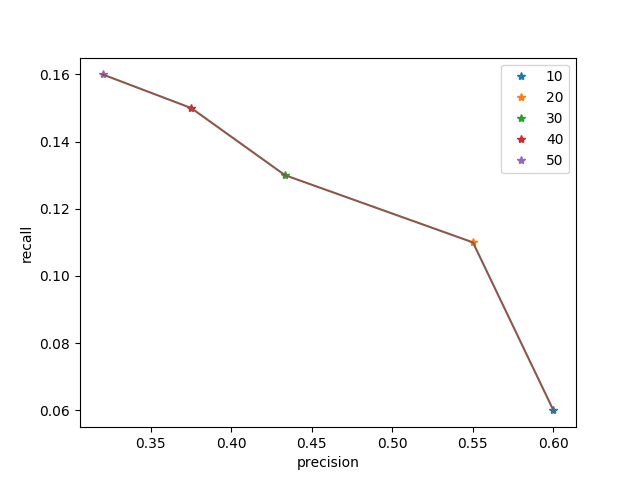
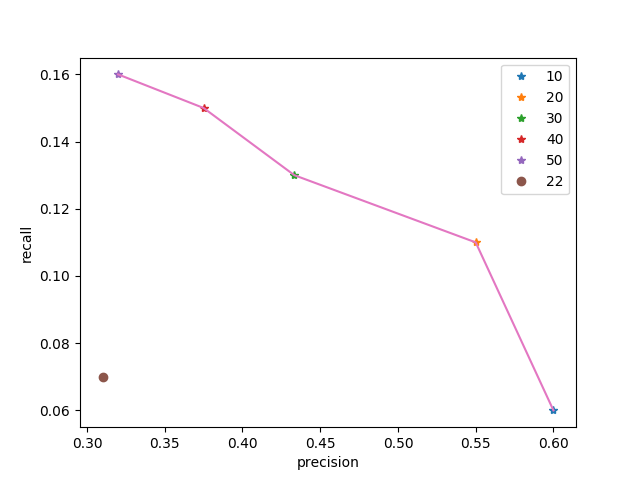
Task2.4 finalized

diff --git a/Labb2/answers/plot_pre-rec.py b/Labb2/answers/plot_pre-rec.py
@@ -3,8 +3,8 @@ import matplotlib.pyplot as plt
 import os
 
 data = []
-with open('answer2.3.txt') as file:
-    data = file.read()
+with open('answer2.3.txt') as f:
+    data = f.read()
 data = data.split('\n')
 data = data[:50]
 
@@ -22,9 +22,16 @@ for i,num in enumerate(num_docs):
     print(precision[i], recall[i])
     handle, = plt.plot(precision[i], recall[i],'*',label = str(num))
     legends.append(handle)
+# For the results from task 1.5
+precision.append(0.31)
+recall.append(0.07)
+num_docs.append(22)
+handle, = plt.plot(precision[-1], recall[-1],'o',label = 'Task1.5-22')
+legends.append(handle)
+
 path = os.path.join("images/", 'precision_recal_graph' + '.png')
 plt.xlabel('precision')
 plt.ylabel('recall')
-plt.plot(precision,recall)
+plt.plot(precision[:len(num_docs)-1],recall[:len(num_docs)-1])
 plt.legend(legends, num_docs)
 plt.savefig(path)
